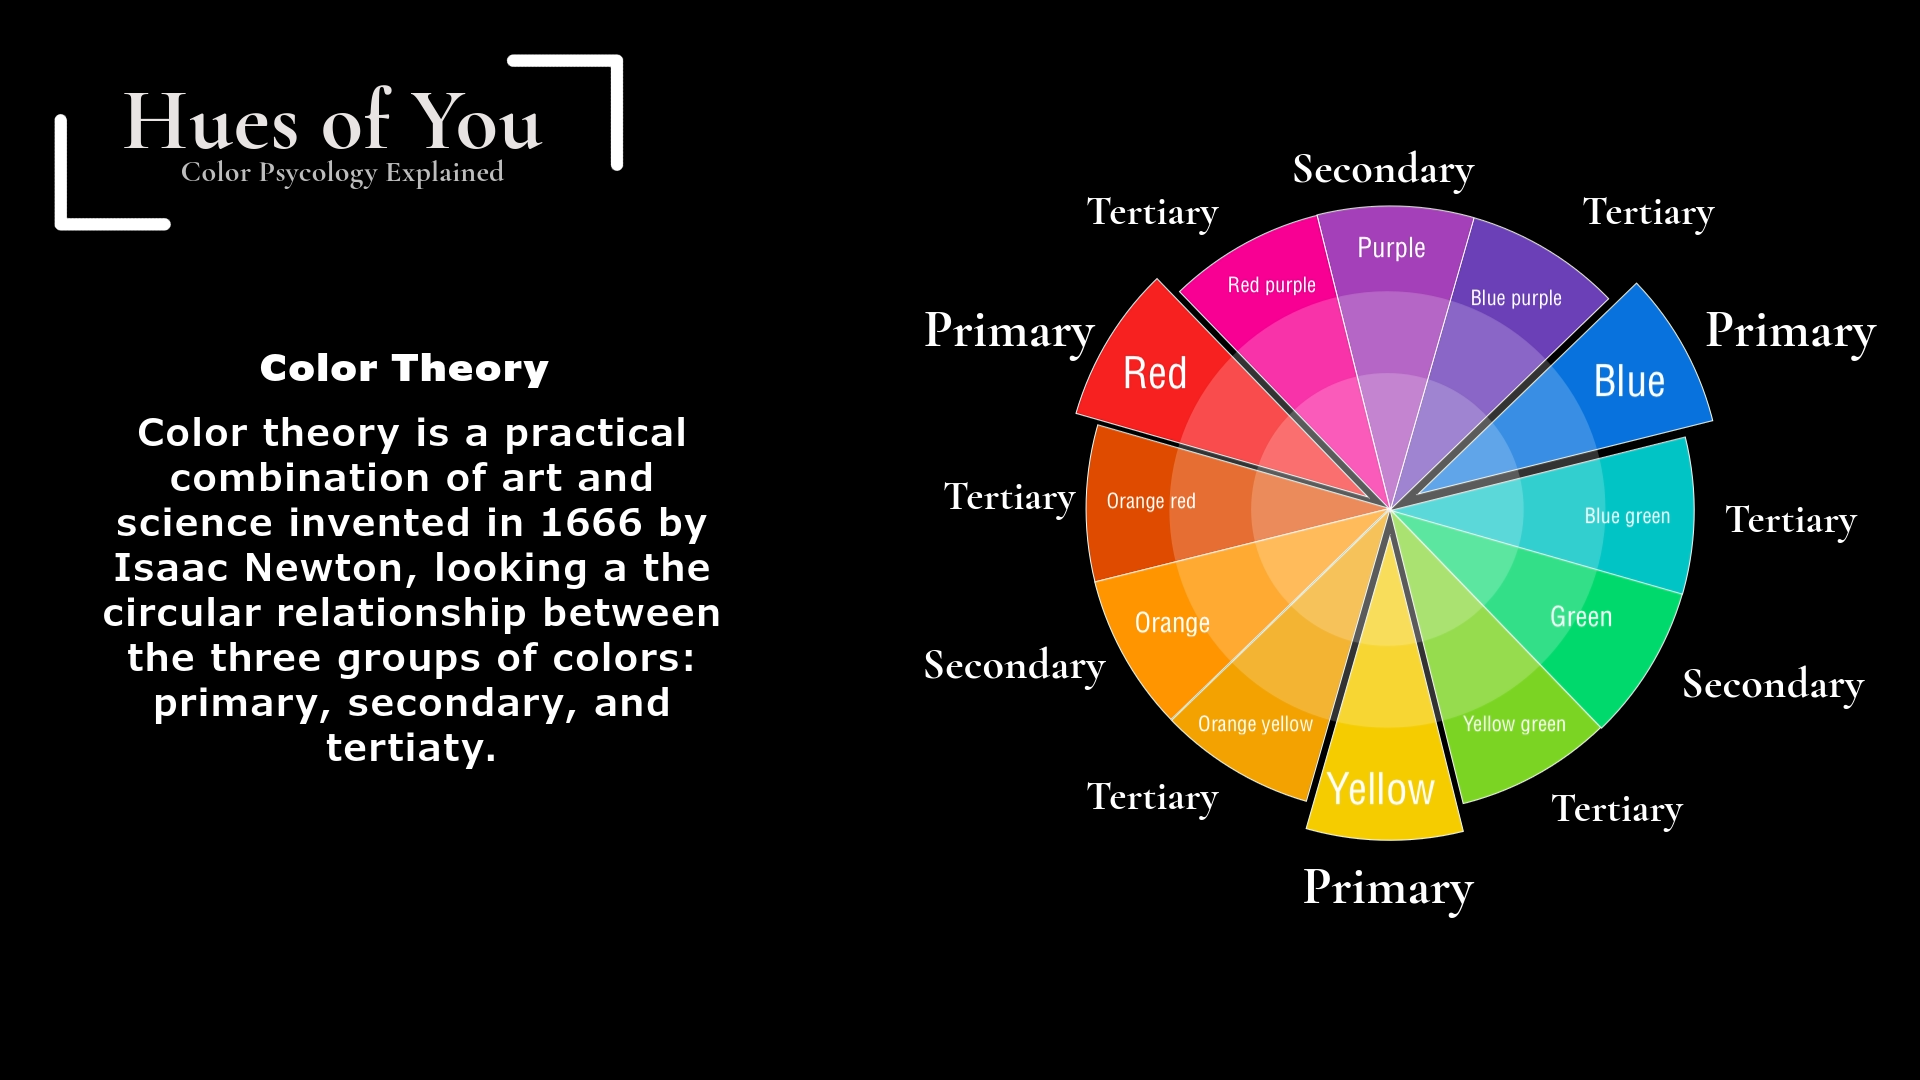
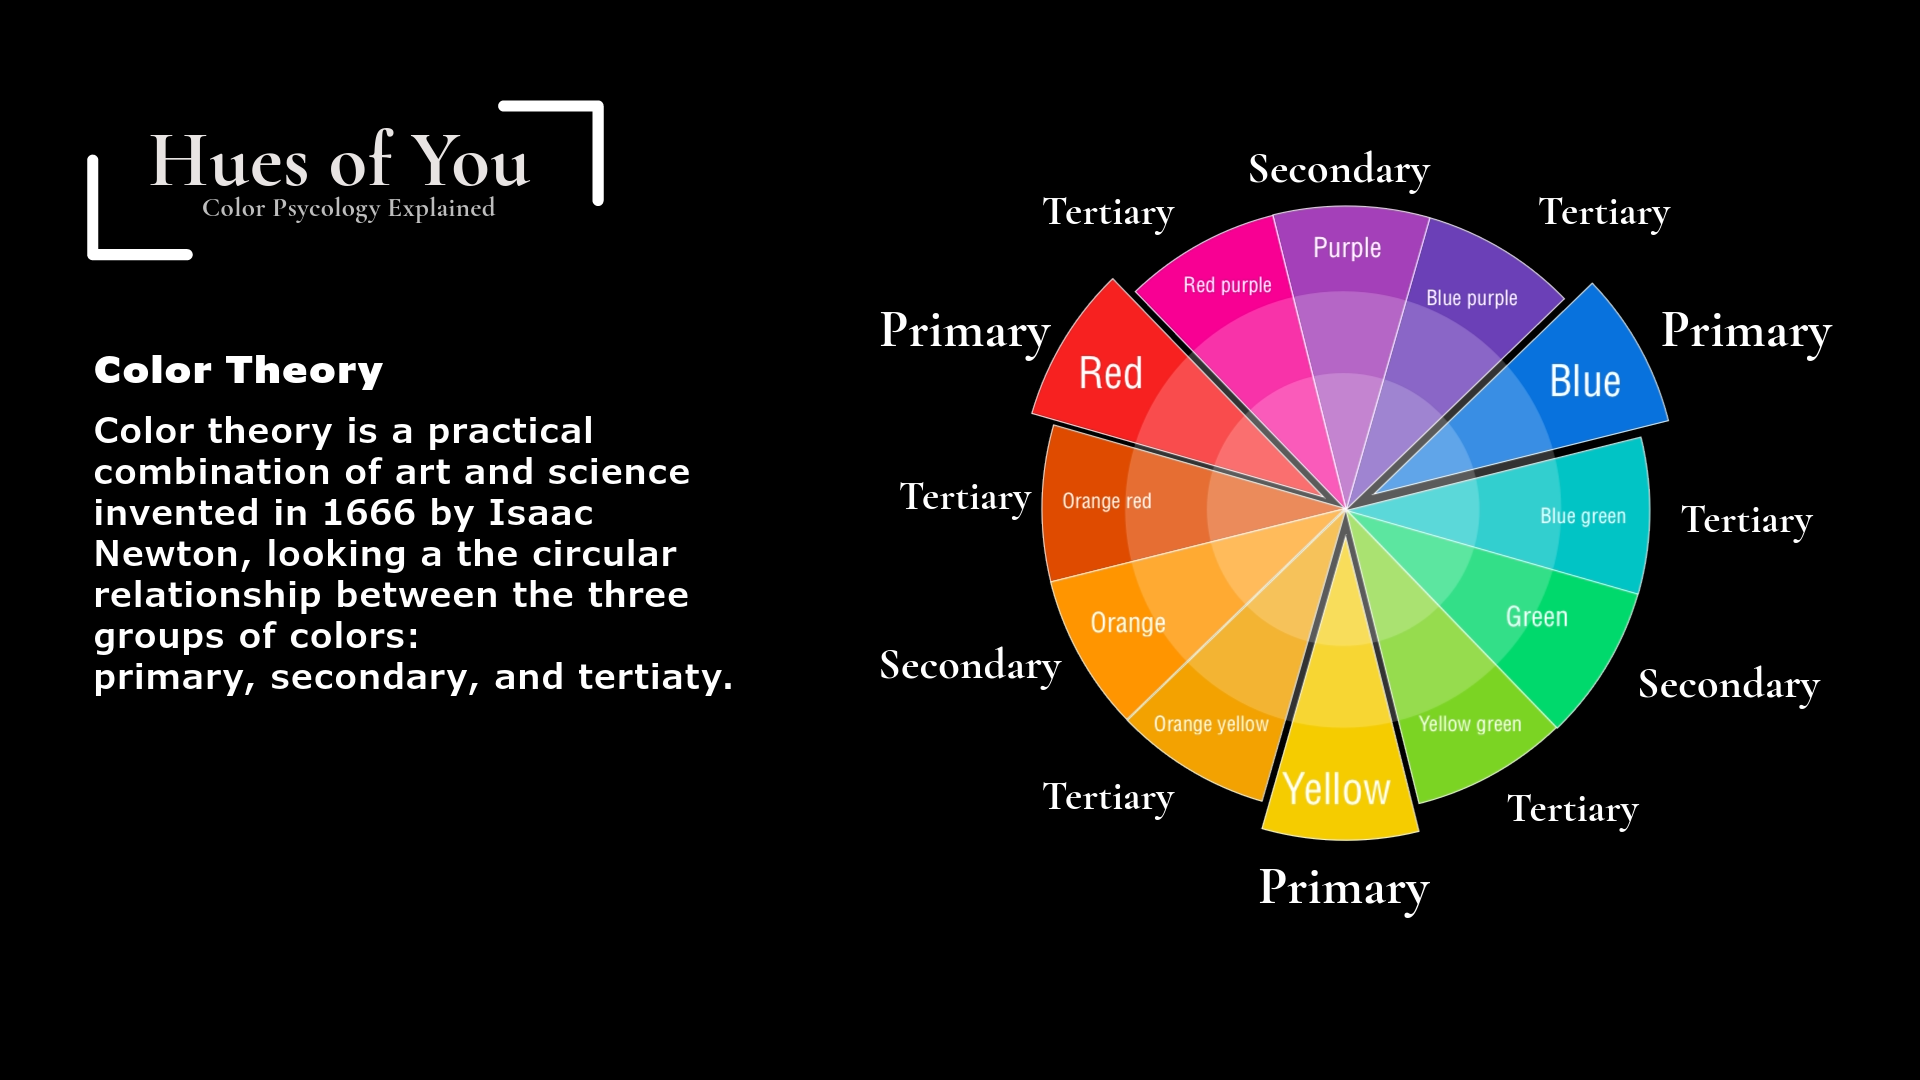
final commit

Changed region(s): [[0.4688, 0.1528, 0.9688, 0.8556], [0.0312, 0.3056, 0.375, 0.7028], [0.0312, 0.0306, 0.3438, 0.2444]]

diff --git a/PsycologyofColor/style.css b/PsycologyofColor/style.css
@@ -3,41 +3,40 @@ body {
 }
 
 .page {
-  padding: 30px; /* Add padding between the pages */
+  padding: 30px; 
   width: fit-content;
 }
 
 #page2 {
-  background-color: #000000; /* Change the background color as needed */
-  color: white; /* Change text color as needed */
-  height: 950px; /* Adjust the height of page 2 */
+  background-color: #000000; 
+  color: white;
+  height: 950px; 
 }
 
 #labels-container {
   position: absolute;
-  left: 66.5%; /* Center the labels container horizontally */
-  transform: translateX(-50%); /* Adjust the horizontal position */
+  left: 66.5%; 
+  transform: translateX(-50%); 
   z-index: -2; 
   top: -3.5%;
 
 }
 
 #labels-svg {
-  width: 1230px; /* Set the width of the SVG container */
-  height: 1230px; /* Set the height of the SVG container */
+  width: 1230px; 
+  height: 1230px;
 }
 
 
 #carouselExampleIndicators {
-  /* Center the carousel horizontally */
   margin: 0 auto;
-  max-width: 100%; /* Adjust the maximum width as needed */
+  max-width: 100%; 
   margin-left: 100px;
 }
 
 #carouselExampleIndicators .carousel-control-prev,
 #carouselExampleIndicators .carousel-control-next {
-    width: 1%; /* Adjust the width as needed */
+    width: 1%; 
 }
 
 
@@ -63,9 +62,9 @@ body {
 
 div.tooltip {
   position: absolute;
-  width: 20ch;
+  width: 40ch;
   font-family: "Cormorant Garamond", serif;
-  font-size: 12px;
+  font-size: 18px;
   background: WhiteSmoke;
   border: 0px;
   border-radius: 20px;
@@ -132,7 +131,7 @@ div.tooltip {
   position: absolute;
   background-color: #a39d9d;
   padding: 10px;
-  opacity: 0; /* Start with 0 opacity */
+  opacity: 0; 
   transition: opacity 0.2s;
   z-index: 1001;
   left: 1300px;
@@ -144,7 +143,7 @@ div.tooltip {
 #allBoxes {
   position: absolute;
   width: 30%;
-  bottom: 250px; /* Adjust this value to move the entire list upward */
+  bottom: 250px; 
   left: 125px;
   column-count: 2; 
   column-gap: 5px; 

diff --git a/PsycologyofColor/logic.js b/PsycologyofColor/logic.js
@@ -304,7 +304,7 @@ function buildChart(data) {
         .attr("stroke", "white");
 
       div.html(
-        `<b>Title:</b> ${d.title}<b> Date:</b> ${d.date} <br/><br/> <img src="${d.image}" width="100%"/>`
+        `<b> ${d.title}<b></b> ${d.date} <br/><br/> <img src="${d.image}" width="100%"/>`
       );
     })
     .on("mouseout", function(d, i) {
@@ -473,13 +473,10 @@ function handleSliceMouseOver() {
     const startAngle = parseFloat(d3.select(this).attr("data-start-angle"));
     const endAngle = parseFloat(d3.select(this).attr("data-end-angle"));
 
-    // Increase stroke width
     d3.select(this).attr("stroke-width", 10);
 
-    // Darken stroke color
-    d3.select(this).attr("stroke", "#333"); // Adjust color as needed
+    d3.select(this).attr("stroke", "#333"); 
 
-    // Filter and display data within the hovered slice
     svg.selectAll('.bubble')
       .style('display', function (d) {
         const [h] = colorConverter(d.color[0], d.color[1], d.color[2]);
@@ -513,4 +510,4 @@ const infoIcon = d3.select("body")
   infoTooltip.html("Colors have also a strong impact on our emotions and feelings. " +
   "For instance, the color red has been associated with excitement, " +
   "orange as distressing and upsetting, yellow as cheerful, and " +
-  "blue been associated with comfort and security. Click a color to see its emotional link.");
+  "blue been associated with comfort and security. Click a color to see its emotional link or scroll down to learn more.");

diff --git a/PsycologyofColor/index.html b/PsycologyofColor/index.html
@@ -264,9 +264,13 @@
                 <li data-target="#carouselExampleIndicators" data-slide-to="0" class="active"></li>
                 <li data-target="#carouselExampleIndicators" data-slide-to="1"></li>
                 <li data-target="#carouselExampleIndicators" data-slide-to="2"></li>
+                <li data-target="#carouselExampleIndicators" data-slide-to="3"></li>
             </ol>
             <div class="carousel-inner">
                 <div class="carousel-item active">
+                    <img class="d-block w-100" src="home.png" alt="Home slide">
+                </div>
+                <div class="carousel-item">
                     <img class="d-block w-100" src="slide1.png" alt="First slide">
                 </div>
                 <div class="carousel-item">
